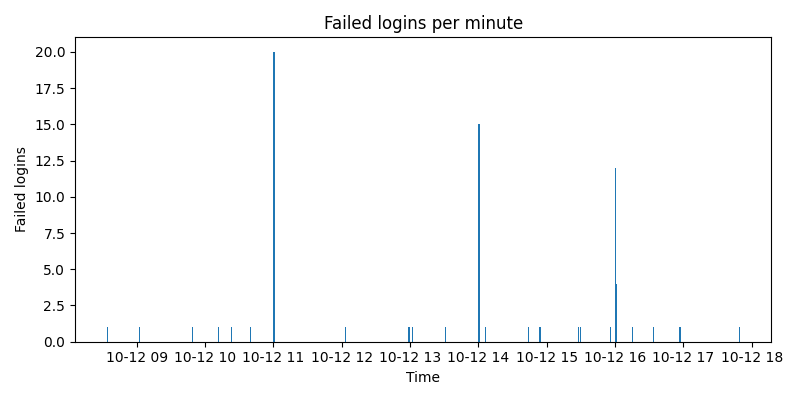
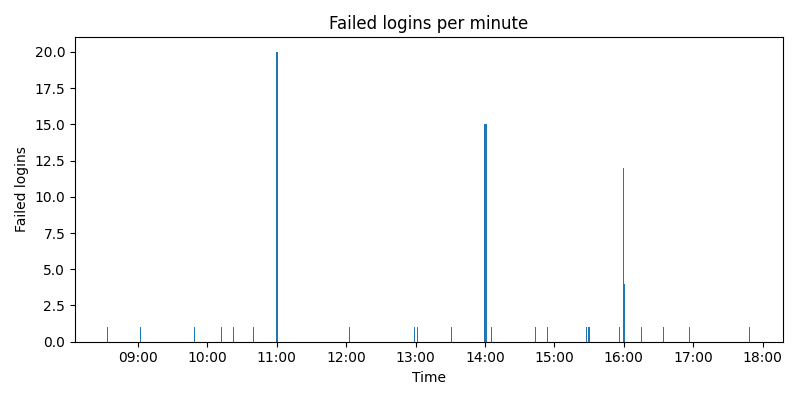
Added Anomaly chart score and fixed layout of other graphs

Changed region(s): [[0.125, 0.3, 1.0, 0.96], [0.4062, 0.03, 0.6562, 0.09], [0.3125, 0.81, 0.3438, 0.84]]

diff --git a/report.py b/report.py
@@ -1,10 +1,12 @@
 import matplotlib
 matplotlib.use("Agg")
 import matplotlib.pyplot as plt
+import matplotlib.dates as mdates
+
 
 from parser import parse_file
 from detector import group_by_ip
-
+from anomaly import build_features, find_anomalies
 
 def chart_failures_per_ip(groups, filename="failures_per_ip.png"):
     ips = list(groups.keys())
@@ -42,7 +44,32 @@ def chart_failures_over_time(events, filename="failures_over_time.png"):
     plt.bar(times, counts, width=0.0007)
     plt.title("Failed logins per minute")
     plt.xlabel("Time")
-    plt.ylabel("Failed logins")
+    plt.ylabel("Failed logins")        
+    plt.gca().xaxis.set_major_formatter(mdates.DateFormatter("%H:%M"))
+    plt.gca().xaxis.set_major_locator(mdates.HourLocator(interval=1))
+    plt.tight_layout()
+    plt.savefig(filename)
+    plt.close()
+
+def chart_anomaly_scores(groups, filename="anomaly_scores.png"):
+    rows = build_features(groups)
+    results = find_anomalies(rows)
+    ips = list(results.keys())
+    scores = [results[ip][1] for ip in ips]
+    colours = []
+    for ip in ips:
+        if results[ip][0] == -1:
+            colours.append("tab:red")
+        else:
+            colours.append("tab:blue")
+
+    plt.figure(figsize=(8, 4))
+    plt.bar(ips, scores, color=colours)
+    plt.axhline(0, color="black", linewidth=0.8)
+    plt.title("Isolation Forest scores (red = flagged anomaly)")
+    plt.xlabel("Source IP")
+    plt.ylabel("Anomaly score (lower = more unusual)")
+    plt.xticks(rotation=30, ha="right")
     plt.tight_layout()
     plt.savefig(filename)
     plt.close()
@@ -54,3 +81,5 @@ if __name__ == "__main__":
     print("saved failures_per_ip.png")
     chart_failures_over_time(events)
     print("saved failures_over_time.png")
+    chart_anomaly_scores(groups)
+    print("saved anomaly_scores.png")
